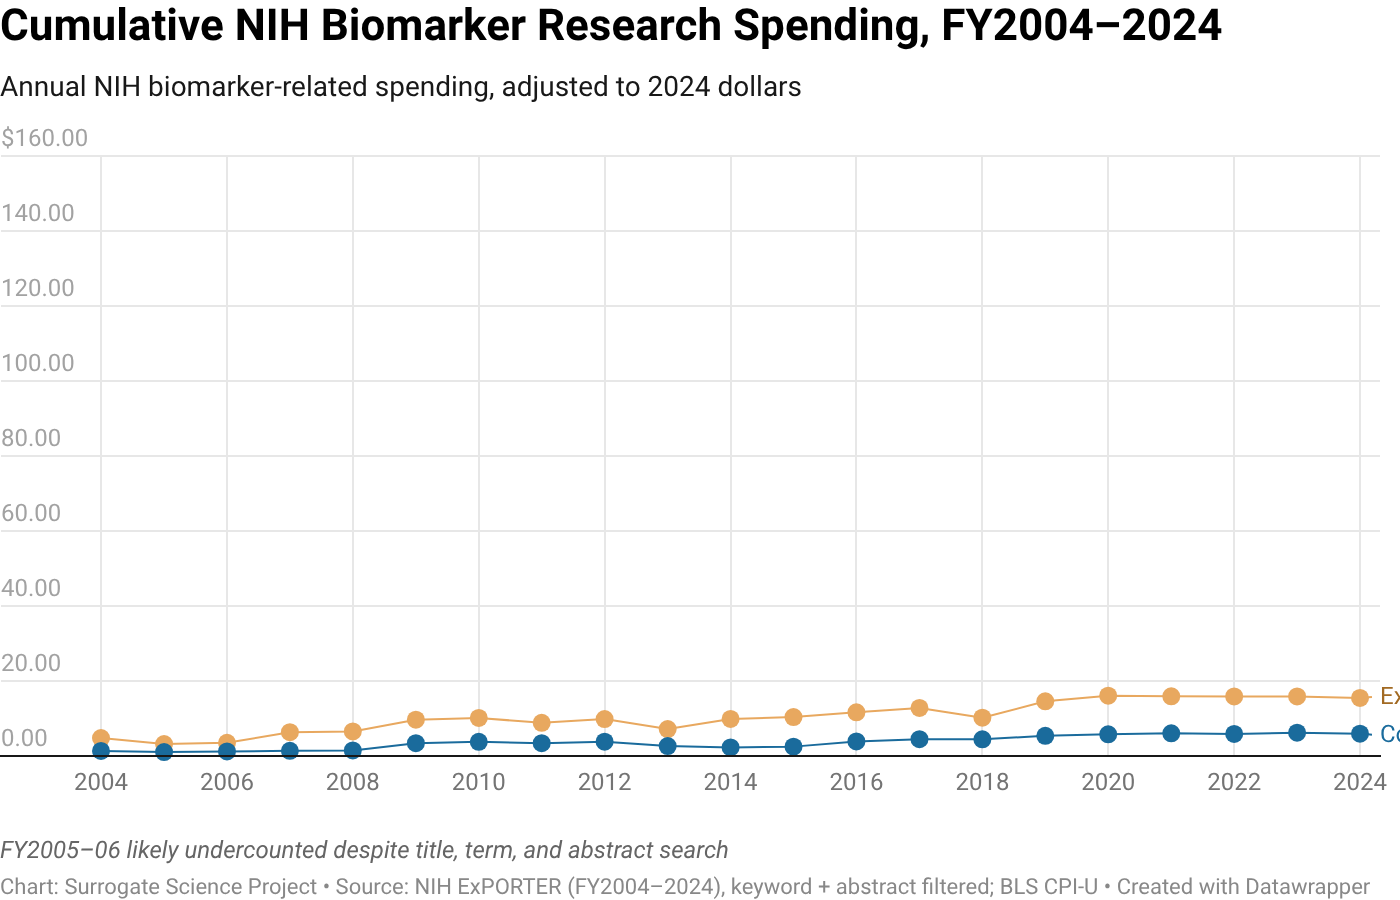
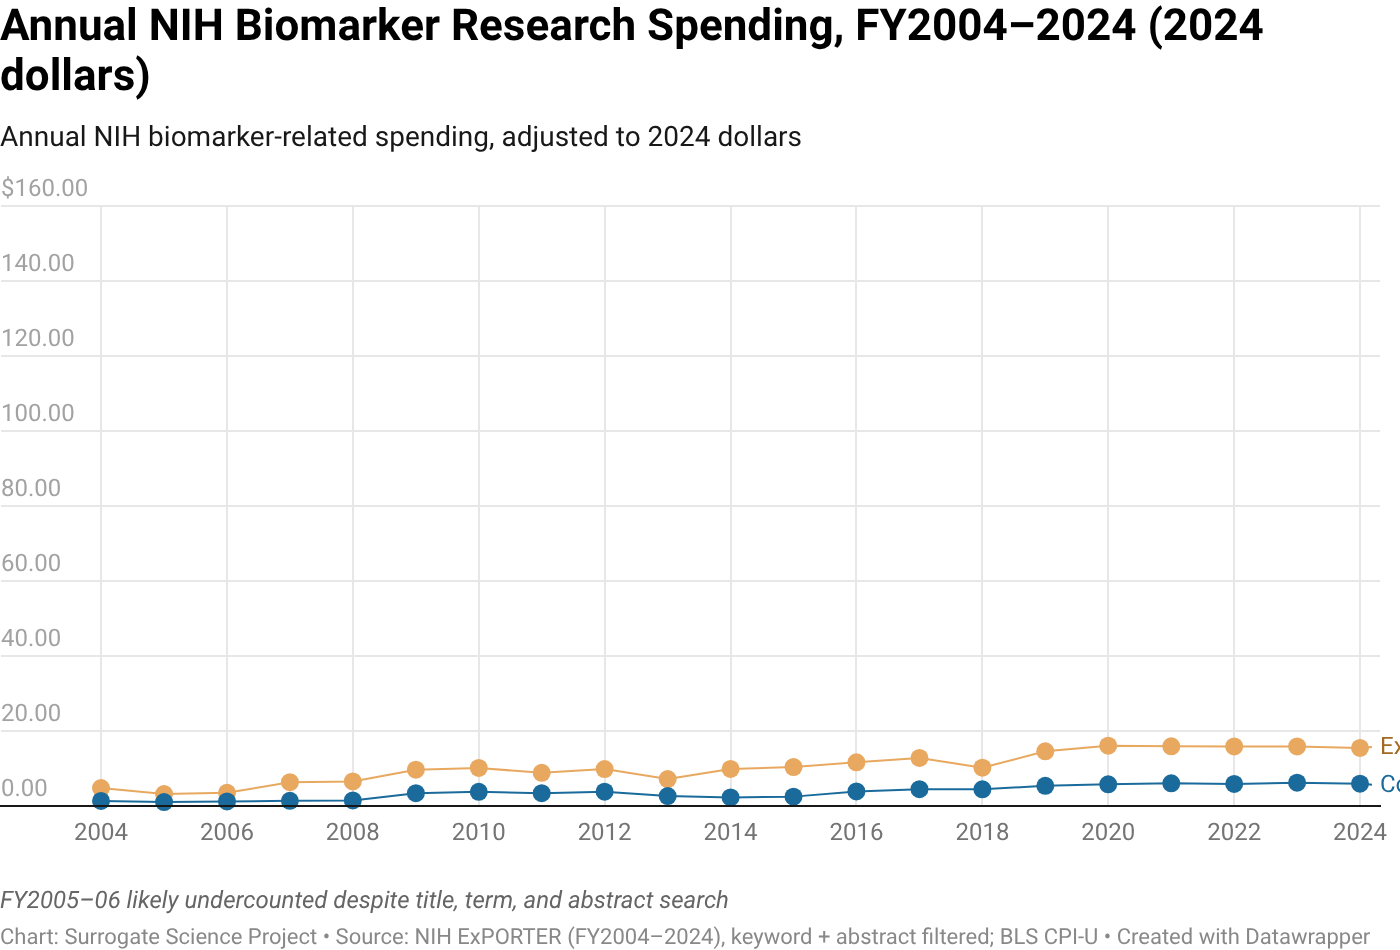
viz: set chart title in script — was never overriding stale DW title
Both charts now set title, intro, byline, source, notes via script.
Annual: "Annual NIH Biomarker Research Spending, FY2004-2024 (2024 dollars)"
Cumulative: "Cumulative NIH Biomarker Research Spending, FY2004-2024 (2024 dollars)"

diff --git a/scripts/plot_public_figures.py b/scripts/plot_public_figures.py
@@ -194,6 +194,8 @@ def main():
     DW_BYLINE = "Surrogate Science Project"
     DW_SOURCE = "NIH ExPORTER (FY2004\u20132024), keyword + abstract filtered; BLS CPI-U"
     DW_NOTES = "FY2005\u201306 likely undercounted despite title, term, and abstract search"
+    DW_TITLE_ANNUAL = "Annual NIH Biomarker Research Spending, FY2004\u20132024 (2024 dollars)"
+    DW_TITLE_CUM    = "Cumulative NIH Biomarker Research Spending, FY2004\u20132024 (2024 dollars)"
     DW_INTRO_ANNUAL = (
         "Annual NIH biomarker-related spending, adjusted to 2024 dollars"
     )
@@ -229,10 +231,13 @@ def main():
         print(f"Uploading annual CPI-adjusted data to {DW_CHART_ANNUAL}...")
         dw_upload_data(DW_CHART_ANNUAL, annual_csv, token)
         dw_patch_metadata(DW_CHART_ANNUAL, viz_patch, token)
-        dw_patch_metadata(DW_CHART_ANNUAL, {"metadata": {
-            "describe": {"intro": DW_INTRO_ANNUAL, "byline": DW_BYLINE, "source-name": DW_SOURCE},
-            "annotate": {"notes": DW_NOTES},
-        }}, token)
+        dw_patch_metadata(DW_CHART_ANNUAL, {
+            "title": DW_TITLE_ANNUAL,
+            "metadata": {
+                "describe": {"intro": DW_INTRO_ANNUAL, "byline": DW_BYLINE, "source-name": DW_SOURCE},
+                "annotate": {"notes": DW_NOTES},
+            },
+        }, token)
         url_annual = dw_publish(DW_CHART_ANNUAL, token)
         print(f"Published: {url_annual}")
 
@@ -245,10 +250,13 @@ def main():
         print(f"Uploading cumulative CPI-adjusted data to {DW_CHART_CUM}...")
         dw_upload_data(DW_CHART_CUM, cum_csv, token)
         dw_patch_metadata(DW_CHART_CUM, viz_patch, token)
-        dw_patch_metadata(DW_CHART_CUM, {"metadata": {
-            "describe": {"intro": DW_INTRO_CUM, "byline": DW_BYLINE, "source-name": DW_SOURCE},
-            "annotate": {"notes": DW_NOTES},
-        }}, token)
+        dw_patch_metadata(DW_CHART_CUM, {
+            "title": DW_TITLE_CUM,
+            "metadata": {
+                "describe": {"intro": DW_INTRO_CUM, "byline": DW_BYLINE, "source-name": DW_SOURCE},
+                "annotate": {"notes": DW_NOTES},
+            },
+        }, token)
         url_cum = dw_publish(DW_CHART_CUM, token)
         print(f"Published: {url_cum}")
 